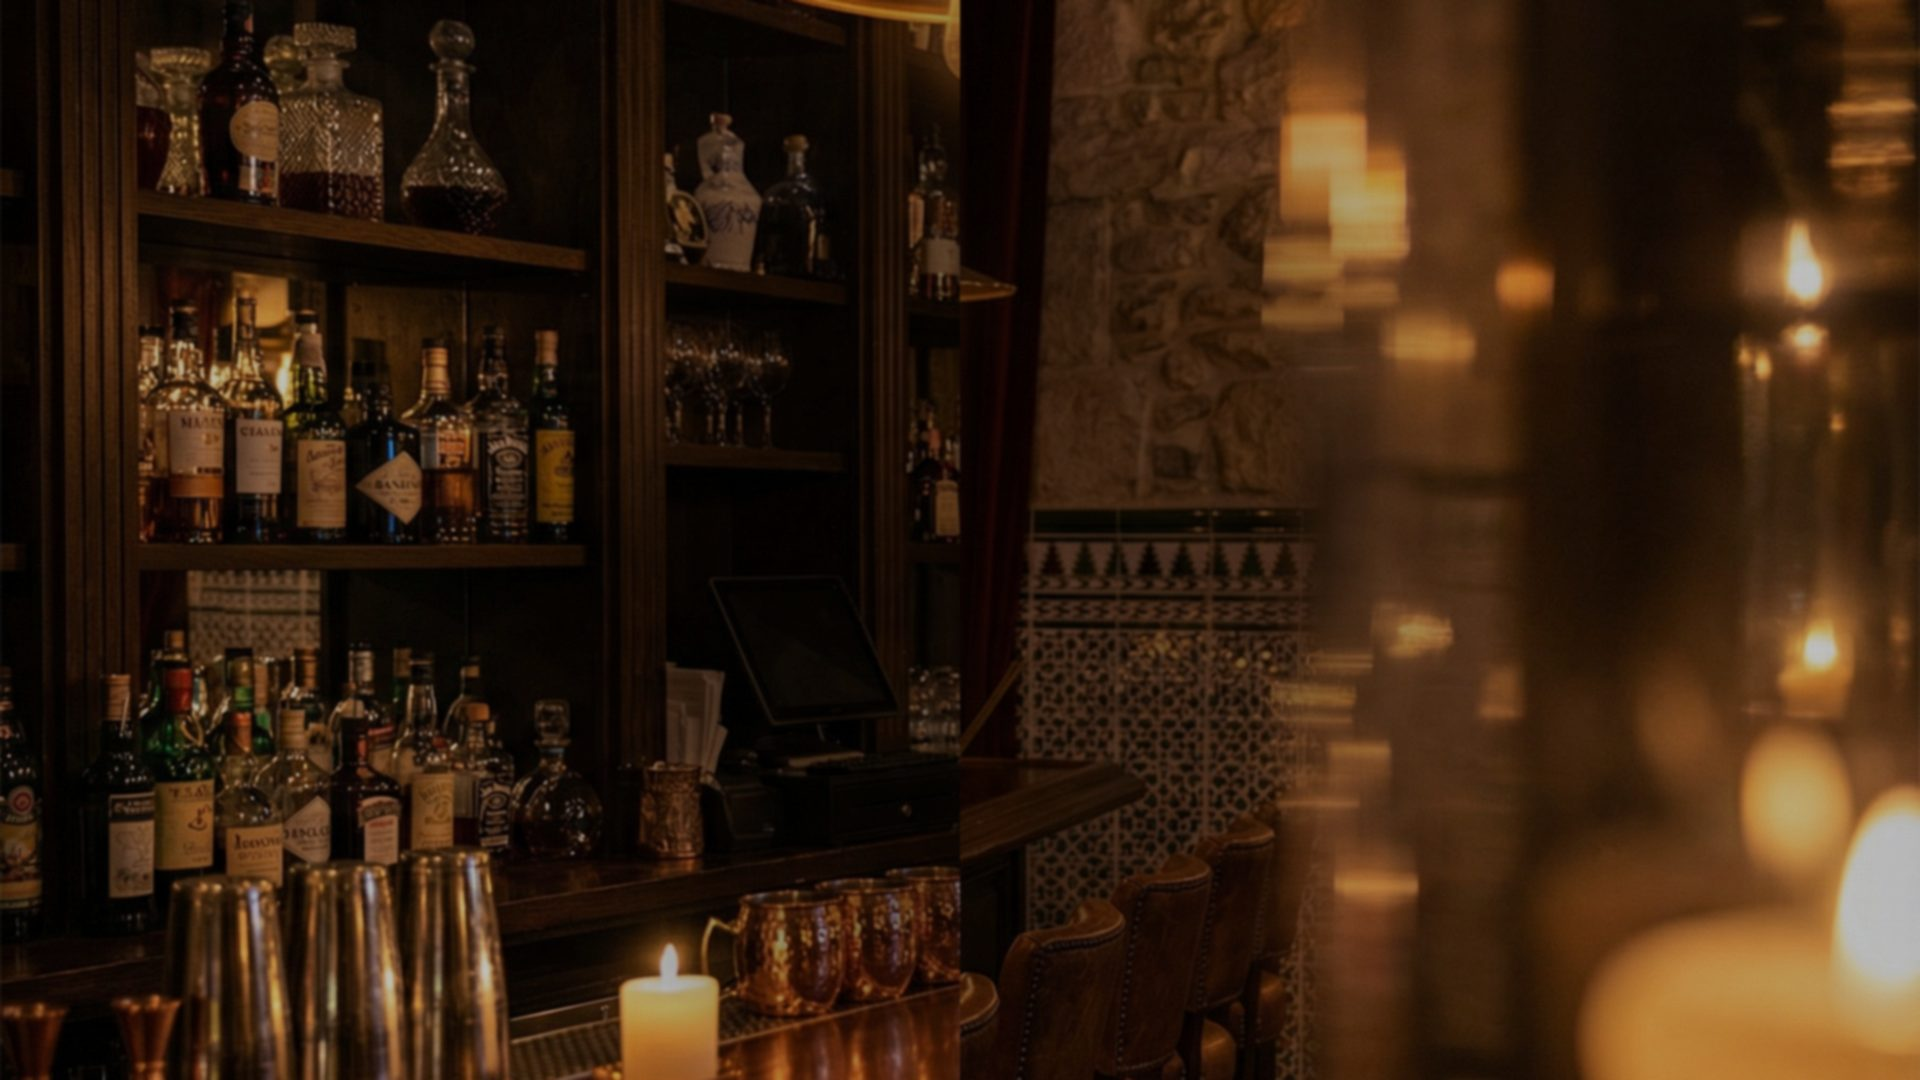
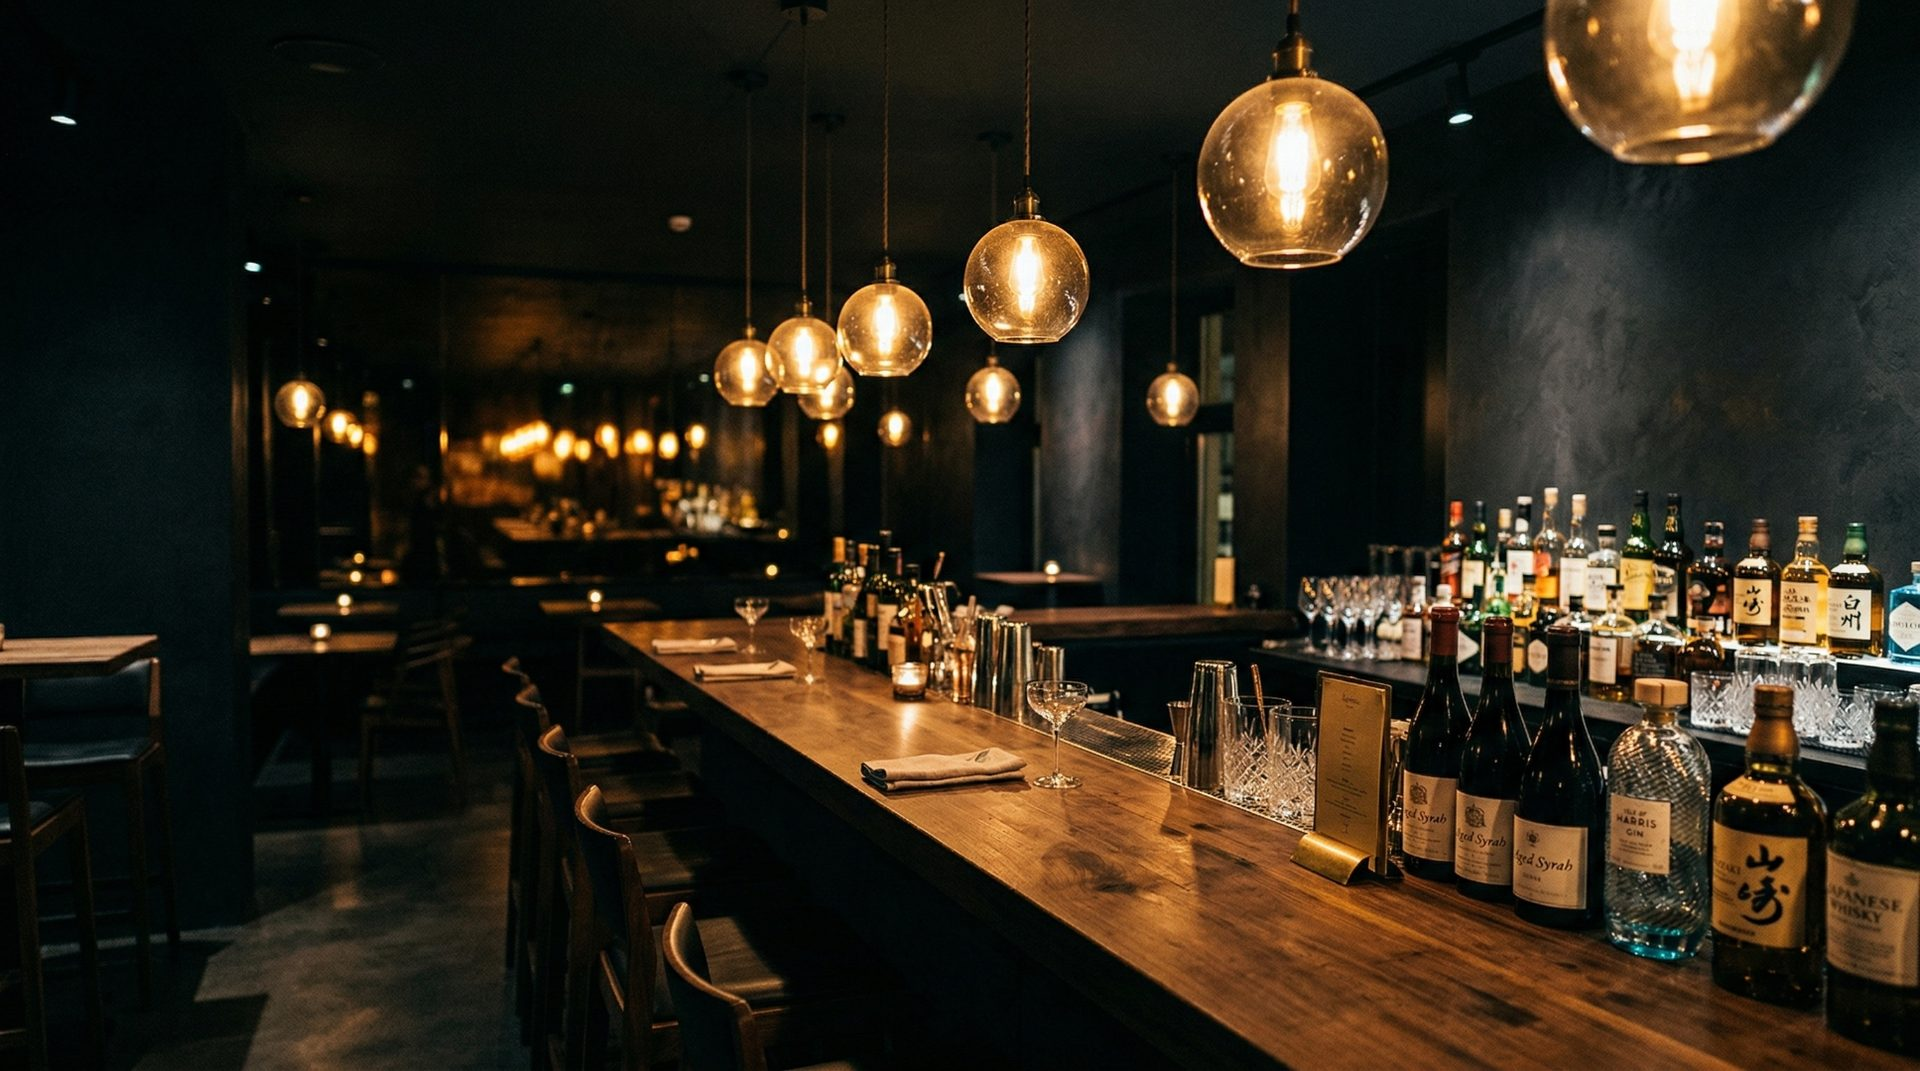
Web: nuevas imágenes hero+drinks, quitar WhatsApp/móvil, reseña real en eventos

diff --git a/index.html b/index.html
@@ -118,7 +118,7 @@
             </div>
           </div>
           <div class="nosotros-img-wrap fade-in">
-            <img src="img/mamahuhu-drinks.jpg" alt="Cervezas y vinos en la barra de Mamahuhu" class="nosotros-img" loading="lazy" />
+            <img src="img/mamahuhu-drinks.jpg" alt="Caña y copas de vino sobre la barra de Mamahuhu" class="nosotros-img" loading="lazy" />
           </div>
         </div>
       </div>
@@ -385,9 +385,9 @@
           <div class="eventos-deco fade-in">
             <div class="eventos-cita">
               <blockquote>
-                "Un sitio de esos en el que siempre apetece quedar."
+                "Un grupo de amigos fuimos a jugar al billar y lo pasamos genial, nos sirvieron rápido y el camarero nos atendió de forma impecable."
               </blockquote>
-              <cite>— El barrio de Natahoyo</cite>
+              <cite>— Manolo · Reseña Google</cite>
             </div>
           </div>
         </div>
@@ -417,9 +417,8 @@
               <p>Lunes a domingo<br /><span id="cfg-horario-2">11:00 – 02:00</span></p>
             </div>
             <div class="info-block">
-              <h3>Contacto directo</h3>
-              <a href="tel:+34603016779" class="contacto-tel" id="cfg-tel-link">📞 Llámanos</a>
-              <a href="https://wa.me/34603016779" target="_blank" rel="noopener" class="contacto-wa">💬 WhatsApp</a>
+              <h3>Teléfono</h3>
+              <a href="tel:+34985358892" class="contacto-tel" id="cfg-tel-link">985 358 892</a>
             </div>
           </div>
 

diff --git a/script.js b/script.js
@@ -75,9 +75,8 @@
         mensaje: form.mensaje.value.trim()
       };
 
-      // Construir mensaje de WhatsApp con la reserva
+      // Construir email con la reserva
       const lineas = [
-        '*Reserva / consulta — Mamahuhu*',
         `Nombre: ${data.nombre}`,
         `Teléfono: ${data.telefono}`,
         `Email: ${data.email}`,
@@ -86,11 +85,12 @@
       if (data.fecha) lineas.push(`Fecha: ${data.fecha}`);
       if (data.mensaje) lineas.push(`Mensaje: ${data.mensaje}`);
 
-      const texto = encodeURIComponent(lineas.join('\n'));
-      const waUrl = `https://wa.me/34603016779?text=${texto}`;
+      const asunto = encodeURIComponent('Reserva / consulta — Mamahuhu');
+      const cuerpo = encodeURIComponent(lineas.join('\n'));
+      const mailto = `mailto:seerico.food@hotmail.com?subject=${asunto}&body=${cuerpo}`;
 
-      // Abrir WhatsApp con el mensaje precargado
-      window.open(waUrl, '_blank', 'noopener');
+      // Abrir cliente de correo con el mensaje precargado
+      window.location.href = mailto;
 
       // Mostrar mensaje de éxito y reset
       if (successMsg) successMsg.classList.add('is-visible');
